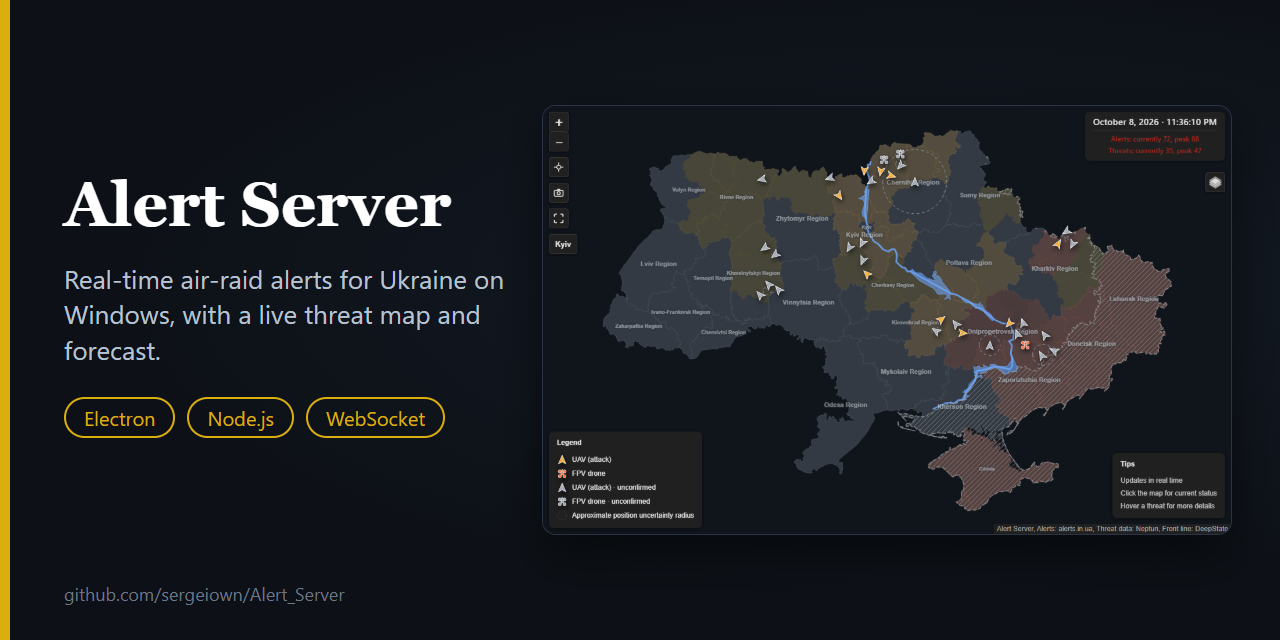
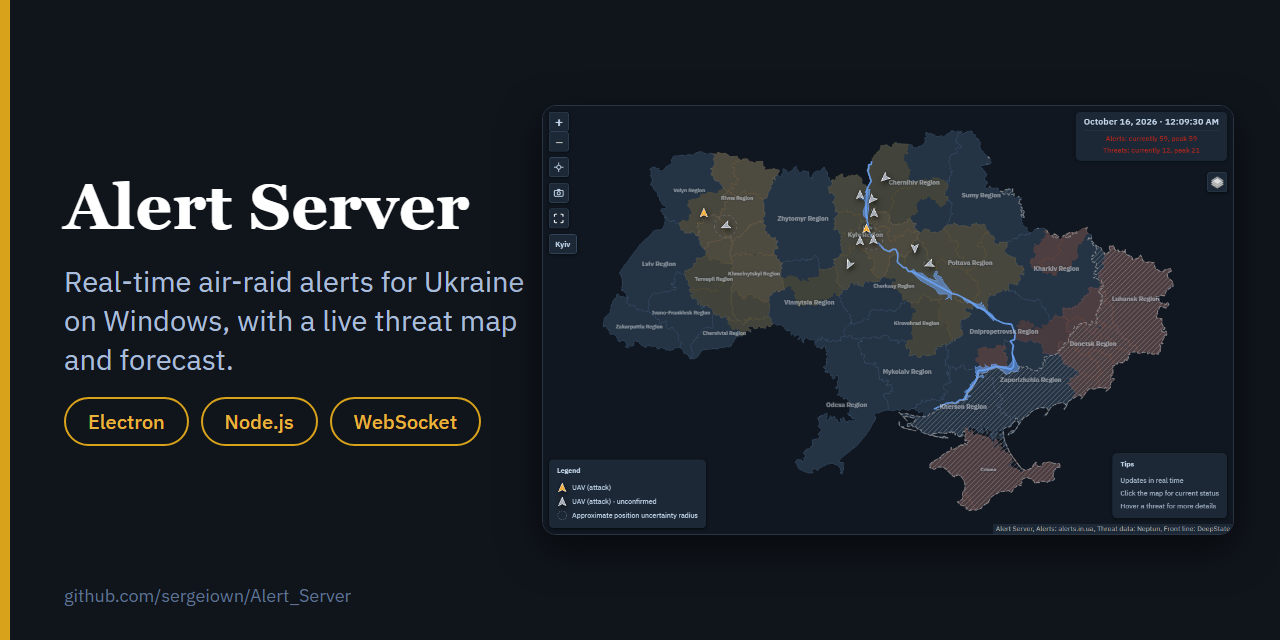
Docs: update window screenshots and a refreshed social preview

diff --git a/README-UA.md b/README-UA.md
@@ -45,6 +45,11 @@
 
 Подальші оновлення виявляються через GitHub Releases, а інсталятор потрібно запускати вручну лише один раз. Застосунок перевіряє оновлення невдовзі після кожного запуску, а потім щогодини протягом усього часу роботи (періодичність налаштовується, від 1 до 24 годин), тож трей-застосунок, залишений відкритим тижнями, все одно дізнається про нові версії. Коли така з'являється, поверх усіх вікон спливає вікно з іконкою застосунку, у ньому перелічені ключові зміни цього релізу, і запитання, оновити зараз чи пізніше. Поки у вибраному регіоні триває тривога, воно чекає. У рідкісних випадках, наприклад коли зміна залежить від сервера, оновлення позначається обов'язковим: після пільгового періоду у вікні зникає кнопка «Пізніше», а якщо його і далі ігнорують, оновлення тихо завантажується й встановлюється при наступному перезапуску. Тривоги працюють увесь цей час. Невелике вікно показує прогрес завантаження, а після завантаження застосунок сам перезапускається для завершення встановлення, без перезавантаження системи.
 
+<picture>
+  <source media="(prefers-color-scheme: dark)" srcset="docs/images/update-prompt-uk-dark.png">
+  <img src="docs/images/update-prompt-uk-light.png" width="520" alt="вікно оновлення">
+</picture>
+
 ## Використання
 
 Застосунок живе в треї, а за ним - одне велике головне вікно. Під час запуску воно відкривається на меню з плиток - Поточний статус, Live-мапа, Прогноз, Тенденції, Налаштування, Журнал подій і Про застосунок - з прапорцем "завжди показувати це вікно при запуску". Кожен розділ відкривається в тому самому вікні, а зверху завжди є панель: Головне меню, Назад (повертає до того, що було відкрито перед поточним екраном), і Перевірити оновлення. Згортання працює як звичайно, а звичний хрестик закриття ховає вікно в трей, і прапорець у Налаштуваннях, увімкнений за замовчуванням, визначає, чи закриття згортає в трей, чи завершує застосунок.

diff --git a/README.md b/README.md
@@ -45,6 +45,11 @@ Download the latest installer (`Alert Server Setup x.x.x.exe`) from [Releases](h
 
 Future updates are detected through GitHub Releases, and you only need to run the installer by hand once. The app checks shortly after every launch and then every hour for as long as it keeps running (the interval is configurable in Settings, from 1 to 24 hours), so a tray app left open for weeks still hears about new versions. When one appears, a window with the app icon pops up on top of everything else, lists the key changes in that release and asks whether to update now or later. It waits while an alert is active in one of your regions. In rare cases, for example a change the server depends on, an update is marked as mandatory: after a grace period the window loses its Later button, and if it is still ignored the update downloads quietly and installs on the next restart. Air-raid alerts keep working the whole time. A small window shows download progress, and once downloaded the app restarts itself to finish installing - no reboot needed.
 
+<picture>
+  <source media="(prefers-color-scheme: dark)" srcset="docs/images/update-prompt-en-dark.png">
+  <img src="docs/images/update-prompt-en-light.png" width="520" alt="update window">
+</picture>
+
 ## Usage
 
 The app lives in the tray, with one big main window behind it. At launch that window opens on a menu of tiles - Current status, Live map, Forecast, Trends, Settings, Event log and About - with a checkbox to always show it at startup. Every section opens inside the same window, and a bar at the top is always there: Main menu, Back (it returns to whatever was open before the current screen) and Check for updates. Minimize works as usual, while the familiar close cross sends the window to the tray, and a checkbox in Settings, on by default, decides whether closing it minimizes to the tray or quits the app.
